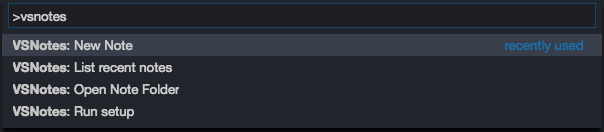
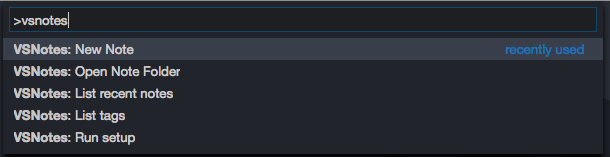
Update documentation and increment version number.

Changed region(s): [[0.0, 0.2424, 1.0, 0.9091], [0.0, 0.0, 1.0, 0.2121], [0.0, 0.9697, 0.9834, 1.0]]

diff --git a/README.md b/README.md
@@ -1,34 +1,33 @@
 # VS Notes
-Take markdown notes from VS Code quickly and easily.
+A simple tool that takes care of the creation and management of plain text notes and harnesses the power of VS Code via the Command Palette.
 
 ![](https://github.com/patleeman/VSNotes/raw/master/img/vsnotes_commands.png)
 
 # Repository
-
 [VS Notes is MIT Licensed and available on Github](https://github.com/patleeman/VSNotes)
 
 # Features
 1. Access commands quickly from the VS Code command palette `Ctrl/Cmd + Shift + p`.
 2. Set a base folder for your notes and all notes created will be saved in that folder.
 3. Easily access latest notes with `List Recent Notes` command.
-4. Open your note folder in a new window.
+4. Retrieve notes via tags in YAML encoded frontmatter on your notes.
+5. Open your note folder in a new window.
 
 # Quick Start
 - Install the extension from the VS Code Extension menu.
-- Open the command pallette `Ctrl/Cmd + Shift + p` and type `vsnotes`. Select Run Setup.
+- Open the command palette `Ctrl/Cmd + Shift + p` and type `vsnotes`. Select Run Setup.
 - Click start and then select a directory to save your notes to.
 
 To modify other settings, open the VS Code settings `Preferences > Settings` or hit `Ctrl/Cmd + ,` and type in vsnotes in the search bar. To override the setting, copy it over to your user settings file and modify.
 
 # Taking Notes
-VSNotes is just a quick way to create markdown files in a single location and access them. Harness the power of VSCode and the extension ecosystem to customize your note taking workflow.
+VSNotes is just a quick way to create files in a single location and retrieve them later. Harness the power of VSCode and the extension ecosystem to customize your note taking workflow.
 
-
-## Creating a note
+## Creating a note -- Filename
 When creating a new note, VS Notes will look at the `vsnotes.defaultNoteTitle` setting to grab the format for the file name. This string contains several tokens that is converted by VS Notes when a note is created. Tokens can be modified in the `vsnotes.tokens` setting, but shouldn't be modified unless necessary. When asked to input a title for your new note, VSNotes can detect file paths and will create subfolders as necessary.
 
-### Tokens:
-Tokens are added to the defaultNoteTitle setting and will automatically insert desired data into the file name of the note.
+### Filename Tokens:
+Tokens are added to the defaultNoteTitle setting and will automatically insert desired data into the file name of the note. This gives us the ability to specify a simple title for a note and have additional metadata added to the file name.
 
 - datetime: Inserts the current date time in a format specified by the format key. [Formatting options](https://momentjs.com/docs/#/displaying/format/). Don't modify type or token keys unless you know what you're doing.
 
@@ -76,43 +75,82 @@ VSNotes understands file paths and will create folders as necessary. When prompt
 ![](https://github.com/patleeman/VSNotes/raw/master/img/vsnotes_path_detection_completed.png)
 
 
+### Snippets
+
+New on 0.2.0 - VS Notes will automatically execute a snippet after creating a note to pre-populate the note with a handy form template. The default snippet is called vsnotes and created for the markdown language. You can override it by adding this option to your settings.json file and pointing it to a [custom snippet you've created](https://code.visualstudio.com/docs/editor/userdefinedsnippets).
+
+```
+  "vsnotes.defaultSnippet": {
+    "langId": "markdown",
+    "name": "vsnotes"
+  },
+```
+
+- Set `langId` to the desired language and `name` to a snippet's name.
+- Set `langId` to a language and `name` to `null` and a menu will open with all available snippets for your chosen language.
+- Set both `langId` and `name` to null to disable automatic snippet insertion.
+
+### Tags
+New in 0.2.0 - VS Notes adds the ability to pull tags out of markdown notes.
+
+If a markdown note in your note folder has YAML frontmatter with a tag array, VS Notes will extract the tags from the note and show you all notes with specific tags.
+
+Example YAML frontmatter
+
+```
+// file.md
+---
+tags:
+  - tag1
+  - tag2
+---
+# Markdown goes here
+...
+```
+
 # Settings
 Available settings
 
 ```
 // Default location to save notes.
-"vsnotes.defaultNotePath": "",
+  "vsnotes.defaultNotePath": "",
 
-// Tokens used to replace text.
-"vsnotes.tokens": [
-{
-    "type": "datetime",
-    "token": "{dt}",
-    "format": "YYYY-MM-DD_HH-mm",
-    "description": "Insert current datetime"
-},
-{
-    "type": "title",
-    "token": "{title}",
-    "description": "Insert note title",
-    "format": "Untitled"
-},
-{
-    "type": "extension",
-    "token": "{ext}",
-    "description": "Insert file extension",
-    "format": "md"
-}
-],
+  // Tokens used to replace text.
+  "vsnotes.tokens": [
+    {
+      "type": "datetime",
+      "token": "{dt}",
+      "format": "YYYY-MM-DD_HH-mm",
+      "description": "Insert current datetime"
+    },
+    {
+      "type": "title",
+      "token": "{title}",
+      "description": "Insert note title",
+      "format": "Untitled"
+    },
+    {
+      "type": "extension",
+      "token": "{ext}",
+      "description": "Insert file extension",
+      "format": "md"
+    }
+  ],
 
-// Default note title utilizing tokens
-"vsnotes.defaultNoteTitle": "{dt}_{title}.{ext}",
+  // Default note title utilizing tokens
+  "vsnotes.defaultNoteTitle": "{dt}_{title}.{ext}",
 
-// Number of recent files to show when running command `List Notes`
-"vsnotes.listRecentLimit": 15,
+  // Number of recent files to show when running command `List Notes`
+  "vsnotes.listRecentLimit": 15,
 
-// Automatically convert spaces in notes titles to symbol. To disable set to `null`
-"vsnotes.noteTitleConvertSpaces": "_",
+  // Automatically convert spaces in notes titles to symbol. To disable set to `null`
+  "vsnotes.noteTitleConvertSpaces": "_",
+
+  // Default snippet to execute after creating a note. Set both to null to disable
+  "vsnotes.defaultSnippet": {
+    "langId": "markdown",
+    "name": "vsnotes"
+  },
 ```
 
 # Tips and tricks
@@ -120,5 +158,12 @@ Available settings
 - [Take advantage of built in markdown features in VSCode](https://code.visualstudio.com/docs/languages/markdown)
 
 # Roadmap & Features
-- Tags: Utilizing YAML encoded front matter on a markdown note with a tags array to tag notes. VS Note can keep an index in the main notes folder and use that to quickly access notes.
+- Optimize tags. Index and cache tags to increase lookup times for large note collections.
 
+# Change log
+
+[See CHANGELOG.md](./CHANGELOG.md)
+
+# Contributing
+
+[See CONTRIBUTING.md](./CONTRIBUTING.md)

diff --git a/CHANGELOG.md b/CHANGELOG.md
@@ -3,6 +3,11 @@ All notable changes to the "vsnotes" extension will be documented in this file.
 
 Check [Keep a Changelog](http://keepachangelog.com/) for recommendations on how to structure this file.
 
+## [0.2.0] - 2017 11 - 9
+### Added
+- `List Tags` Command. VSNotes will recurse notes directory and look for YAML encoded frontmatter with a tags key. Tags are then indexed and shown.
+- Automatically execute snippet on new note creation. VS Notes will now automatically execute a snippet named `vsnotes` after creating a new note.
+
 ## [0.1.0] - 2017-11-7
 ### Added
 - Initial release
